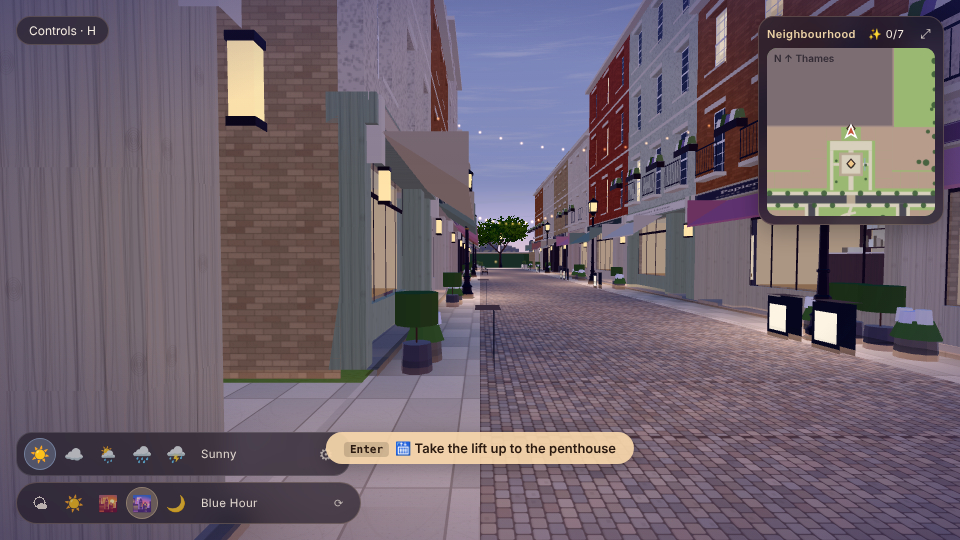
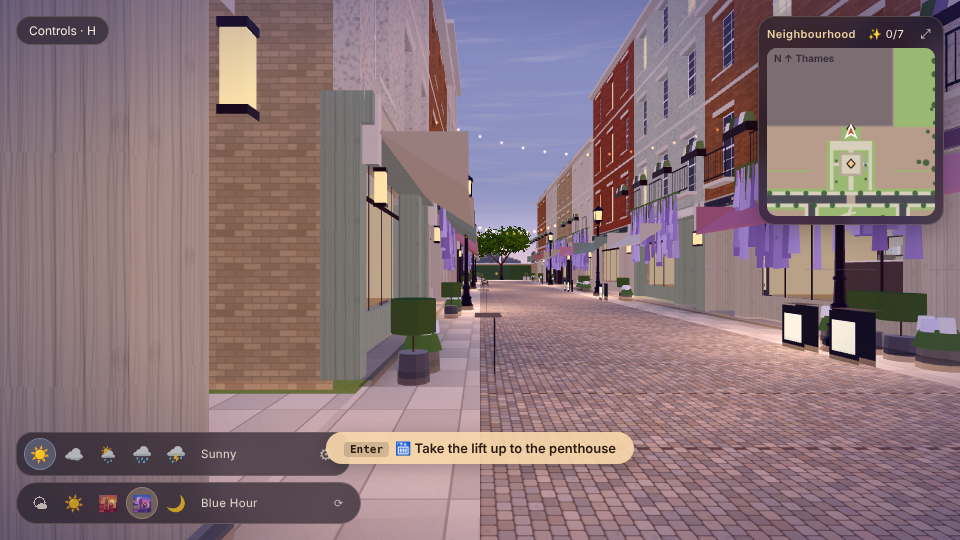
s12: wisteria evidence + status
Claude-Session: https://claude.ai/code/session_017ZtboRbFUCo4FCo9fUW3pH

diff --git a/docs/bible/S12_STATUS.md b/docs/bible/S12_STATUS.md
@@ -2,4 +2,5 @@
 Evidence: `evidence/s12_shopping_street.jpg` (BEFORE p.51 / TARGET p.52 / LOCALHOST blue hour, headless). Pose ≈ (-62, -85.2, 93.5) yaw 1.5708 (looking −x along the lane). Not claimed approved; not M2-verified.
 - Now uses Blender-baked sett/slab/brick/ashlar sets (cobbles show setts with joints and relief).
 - Present: string lights, awnings, café tables, planters, A-frame boards, facades with lit windows.
-- Gaps vs p.52: no wisteria curtain on the left façade, shopfront interiors shallow, no Blender master yet, trees at the lane end sparse, no bloom on lamps.
+- Wisteria curtains now hang over ~70% of shopfronts (lilac strands, headless-viewed; strands read slightly plank-like).
+- Gaps vs p.52: shopfront interiors shallow, no Blender master yet, trees at the lane end sparse, no bloom on lamps.
